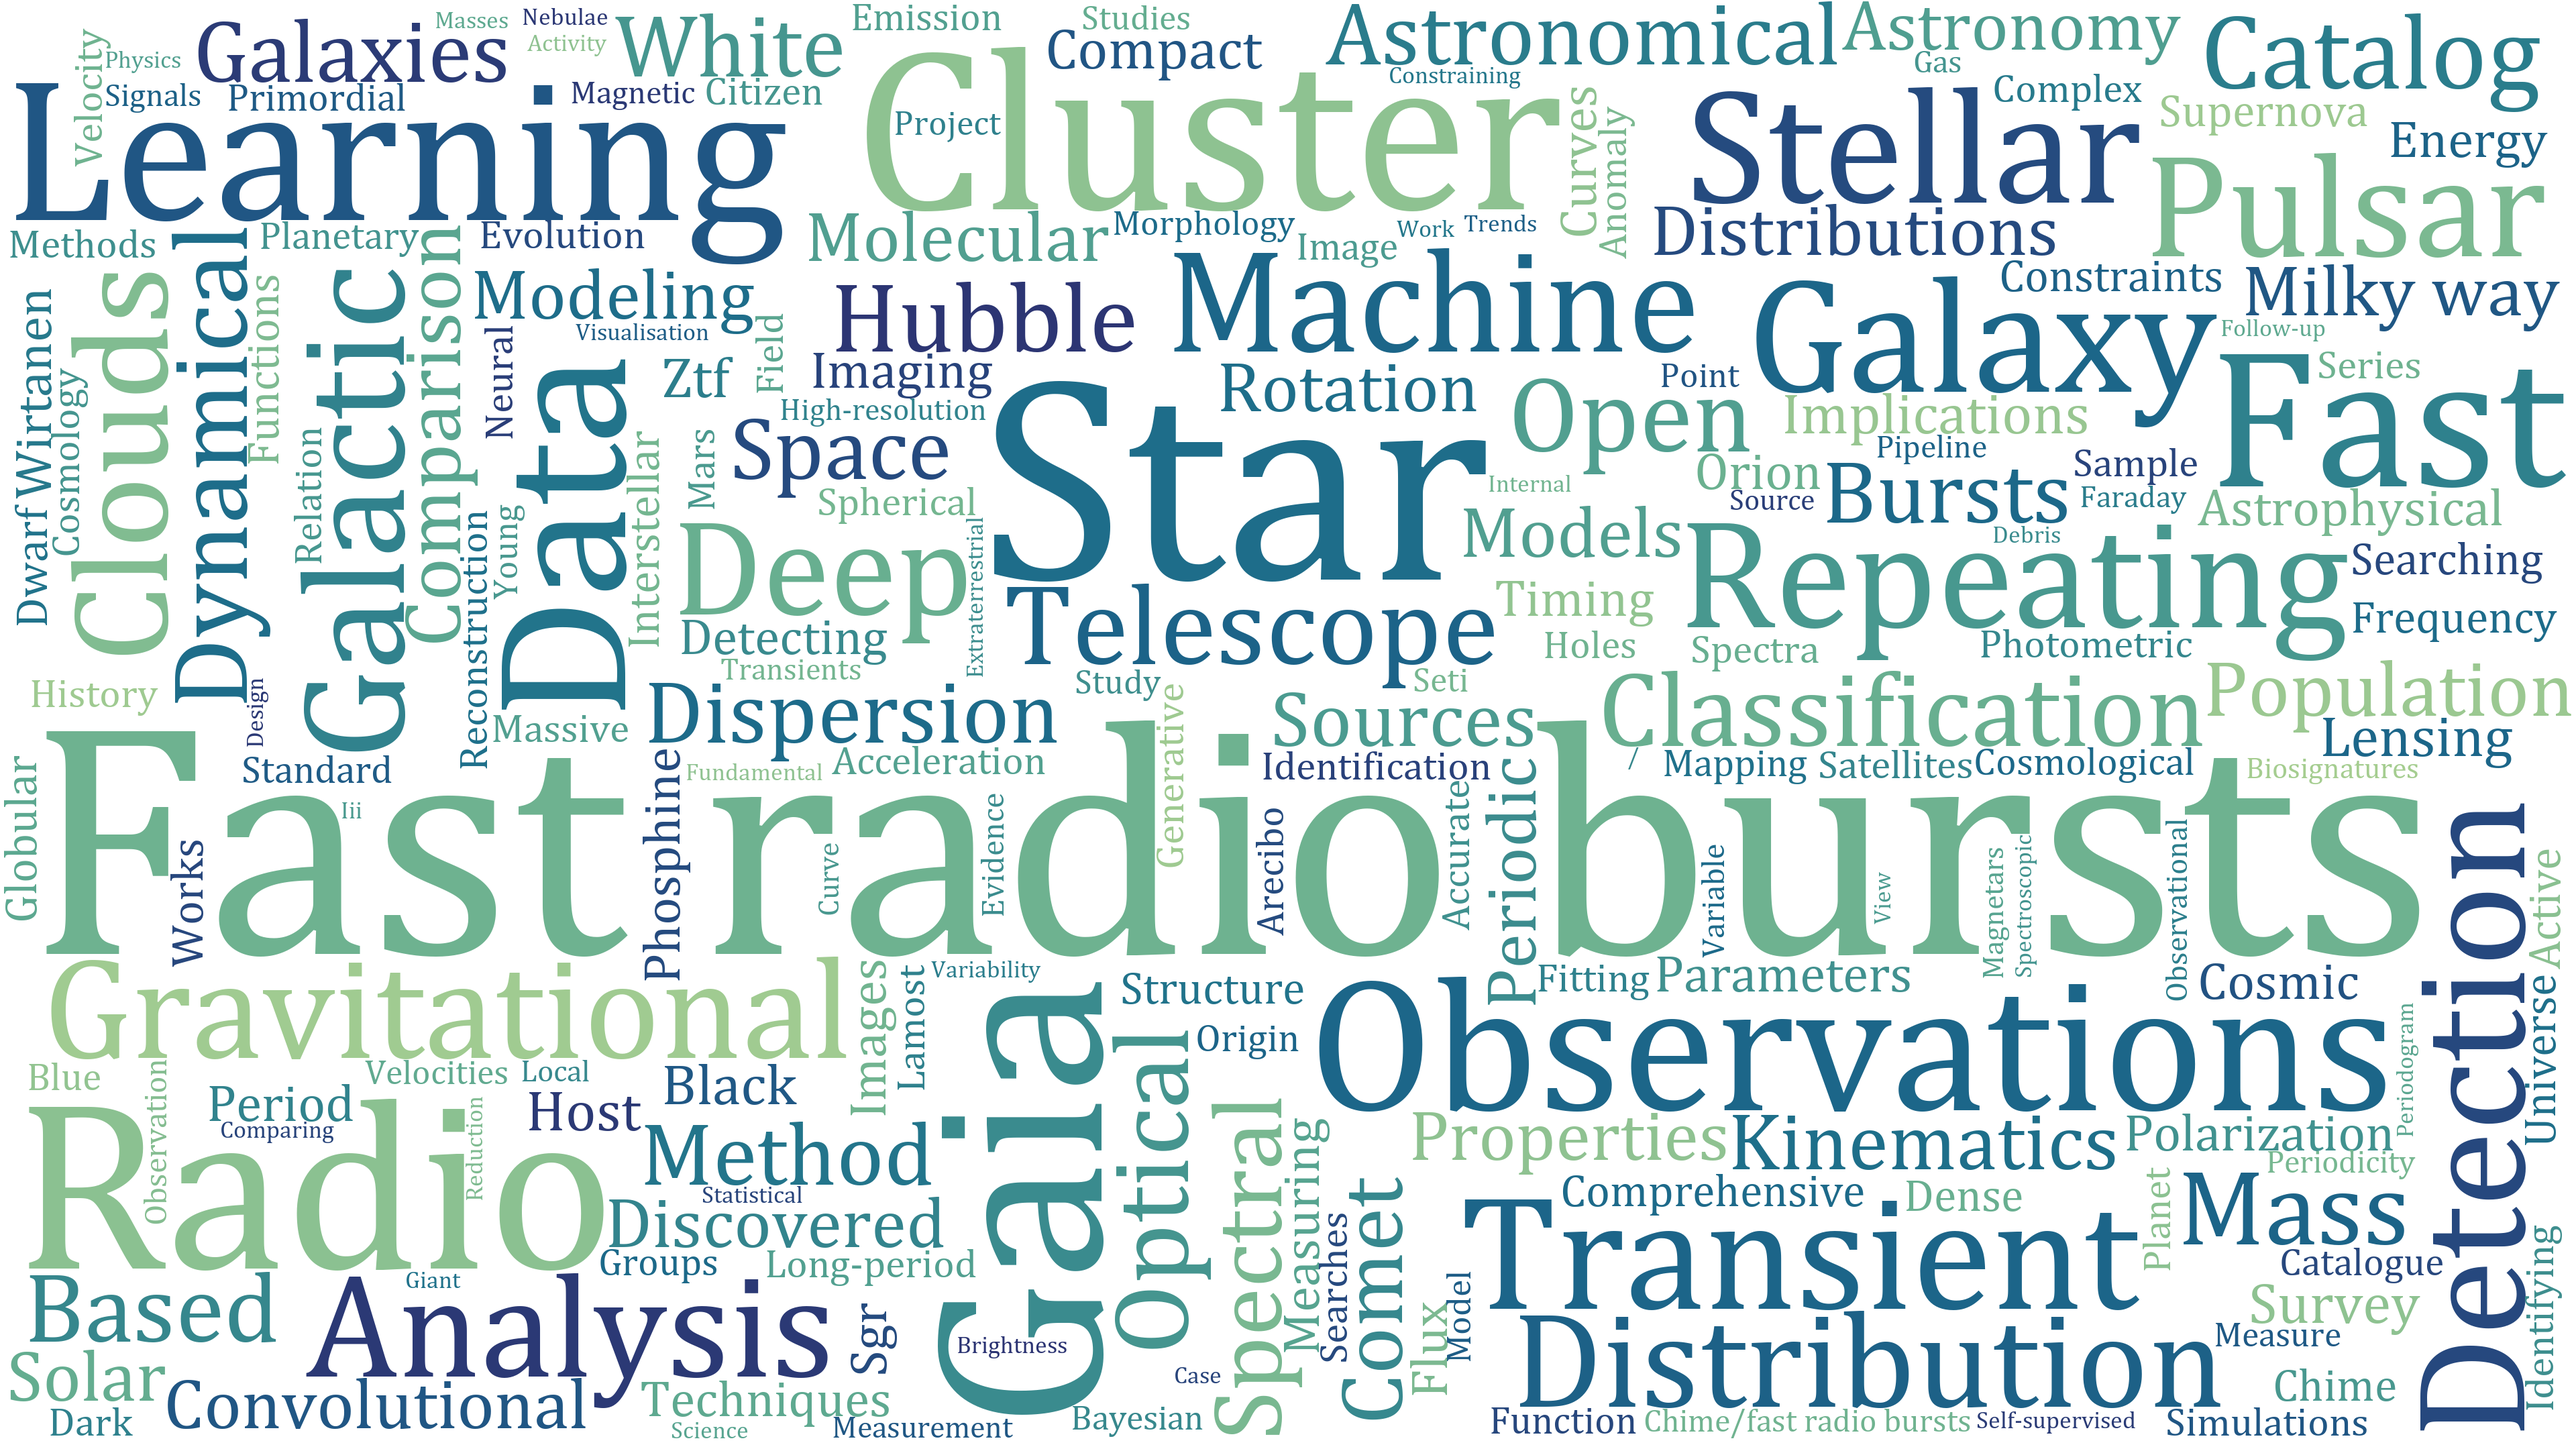
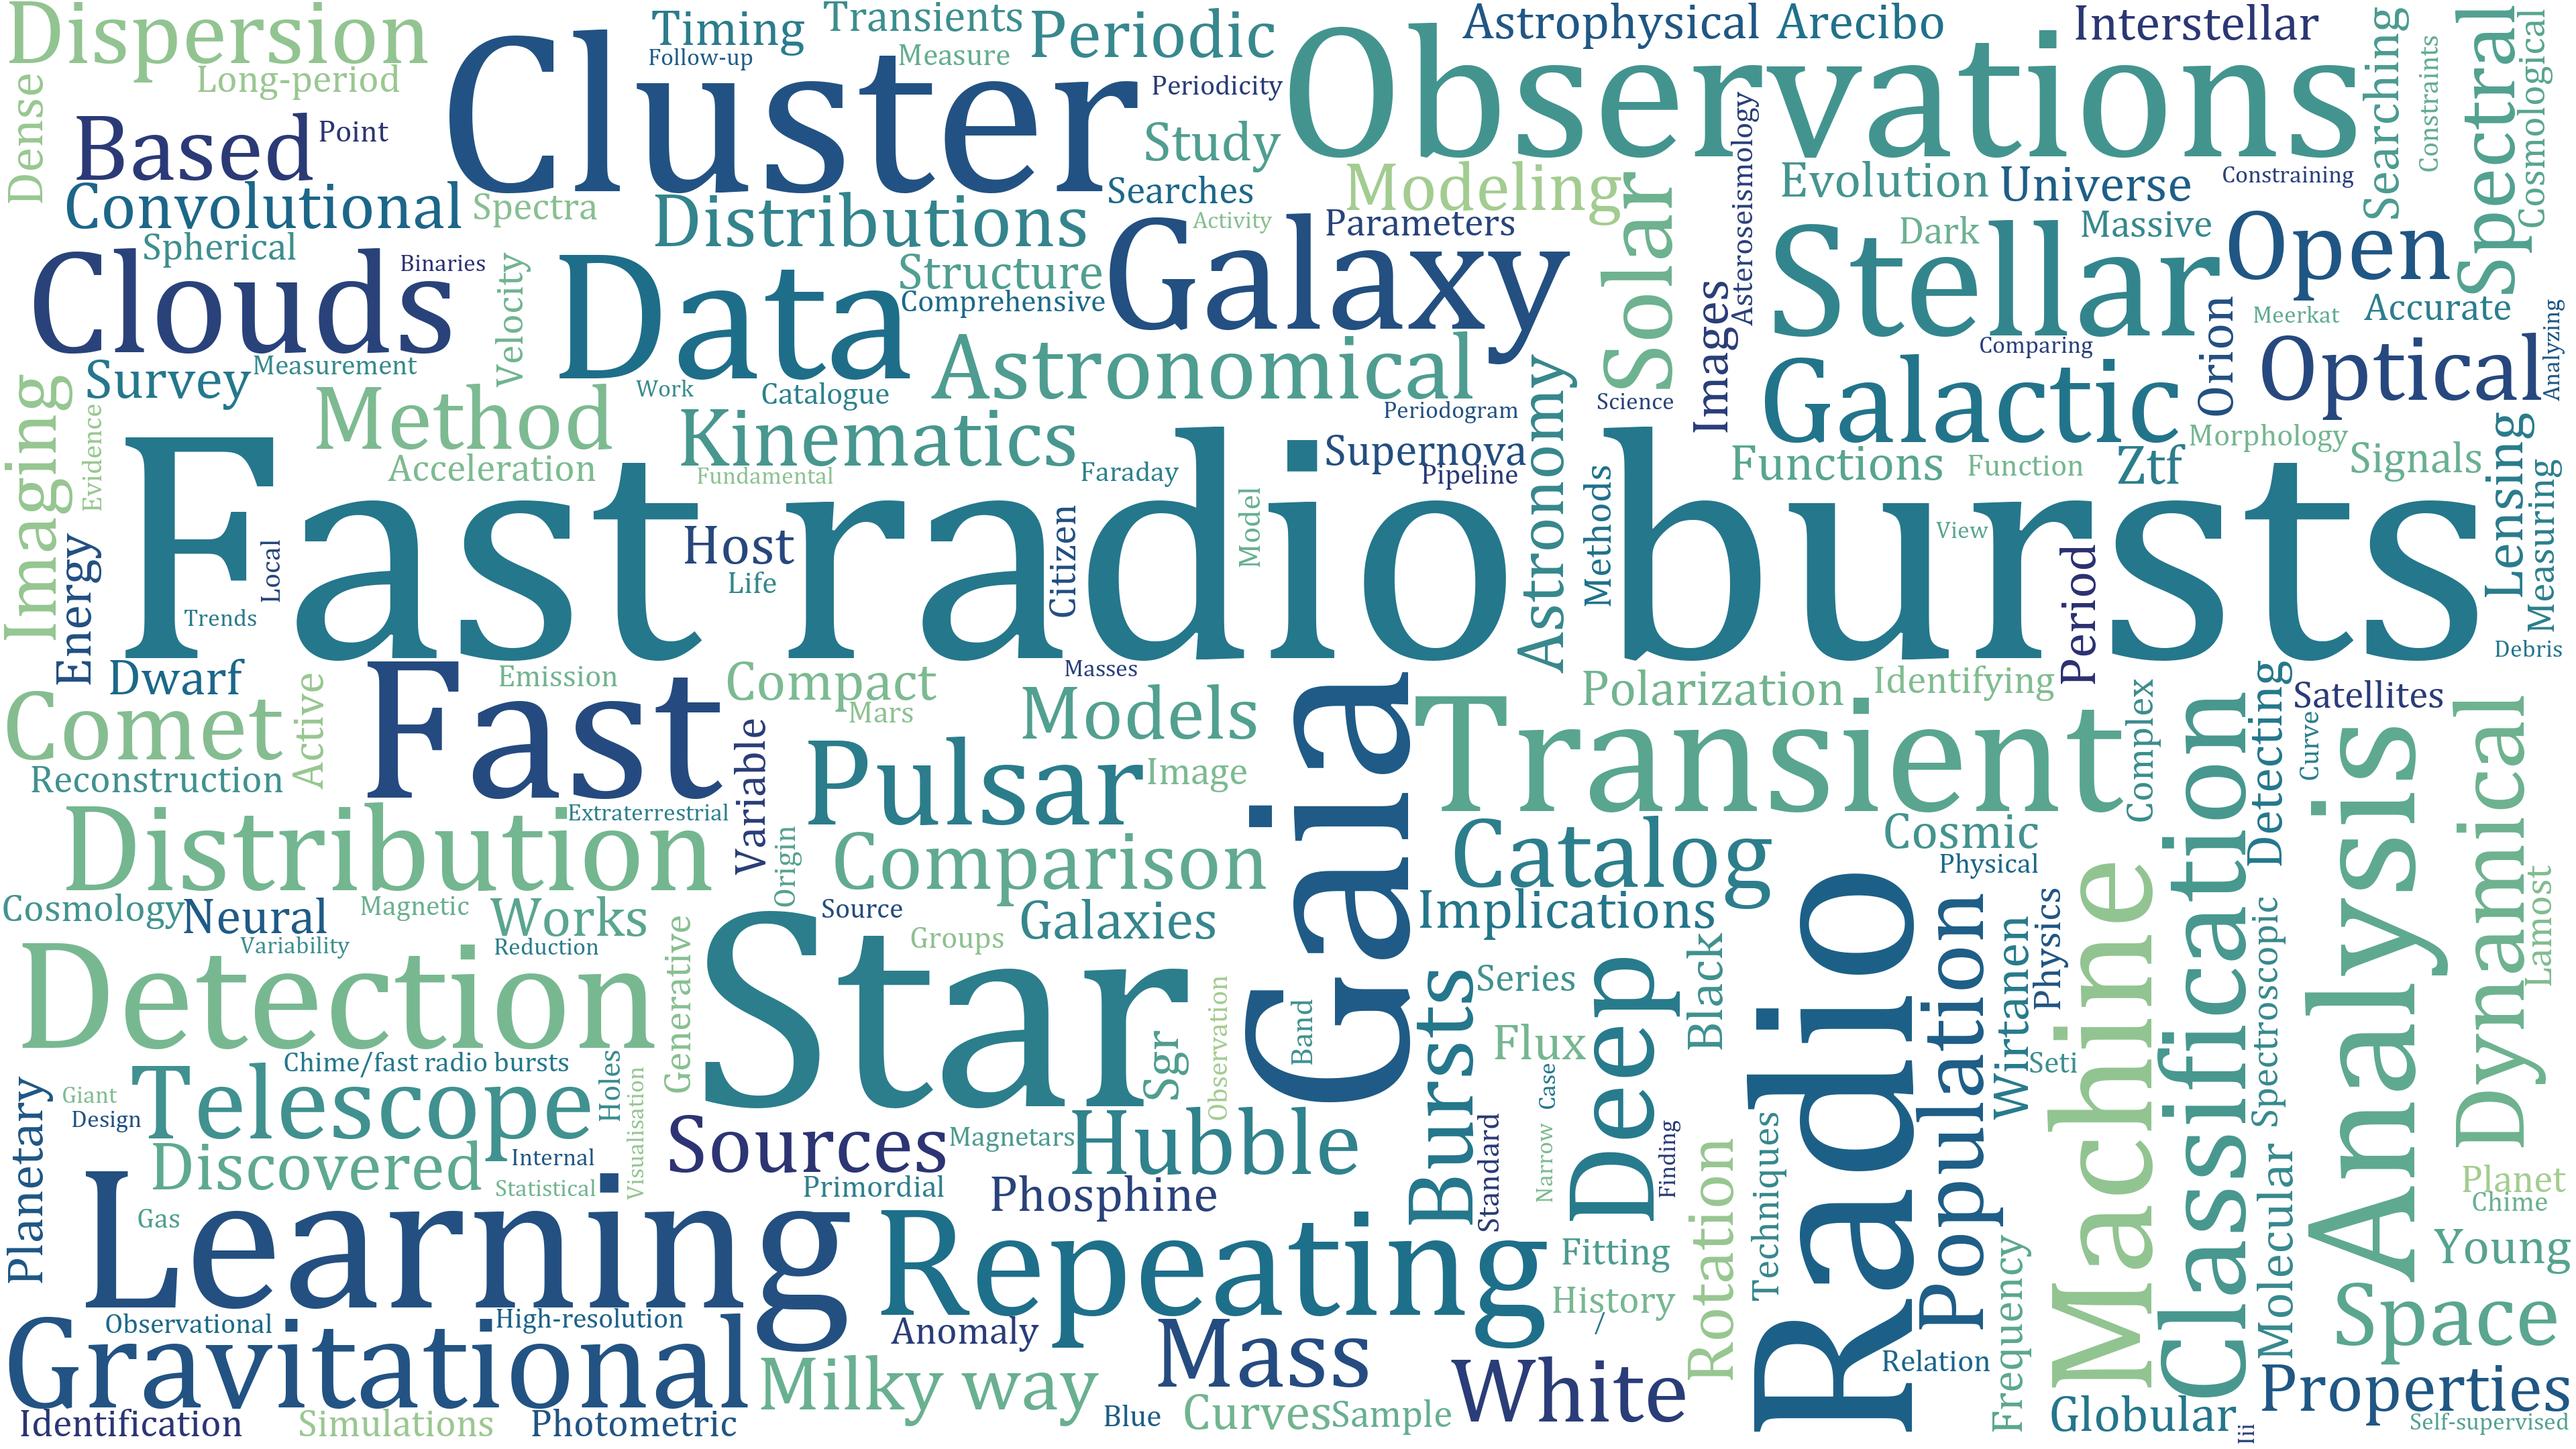
2022-02-14

diff --git a/2022/02/AstroPH-2022-02.md b/2022/02/AstroPH-2022-02.md
@@ -126,3 +126,17 @@
 
 ## 2022-02-14
 
+1. [The FRB 20121102A November rain in 2018 observed with the Arecibo Telescope](https://arxiv.org/abs/2202.05705)
+
+   > Fast Radio Burst, FRB121102, AO
+
+   AO在2018年11月对FRB121102在L波段的观测，有849个爆发，事件率最高是$218/hr$，双峰分布等待时间。二维高斯拟合动态谱，发现漂移与持续时间线性相关，并与`sad-trombone`效应一致。没有短周期，无法用单一幂律拟合。
+
+2. [Circular polarisation of fast radio bursts in the curvature radiation scenario](https://arxiv.org/abs/2202.05475)
+
+   > Fast Radio Burst, Polarization, Circular, Theory
+
+   重复或者非重复快速射电暴都发现有圆偏振，曲率辐射可以在辐射束侧面产生圆偏振。在有曲率辐射的情况下，为了在FRB中看到明显的圆偏振，需要更多的爆发、高洛伦兹系数的电子的爆发、中心有缓慢旋转的中子星。中子星不同的旋转周期可能解释一些FRB没有圆偏振，并且可以解释位置角摆动。
+
+## 2022-02-15
+
